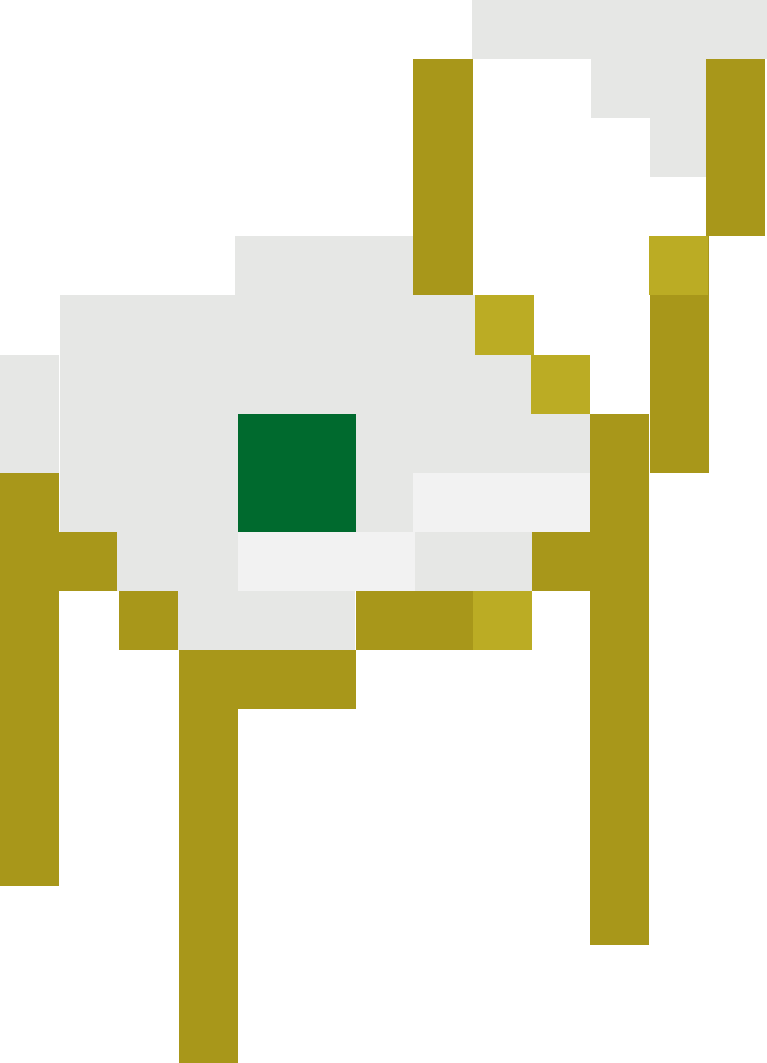
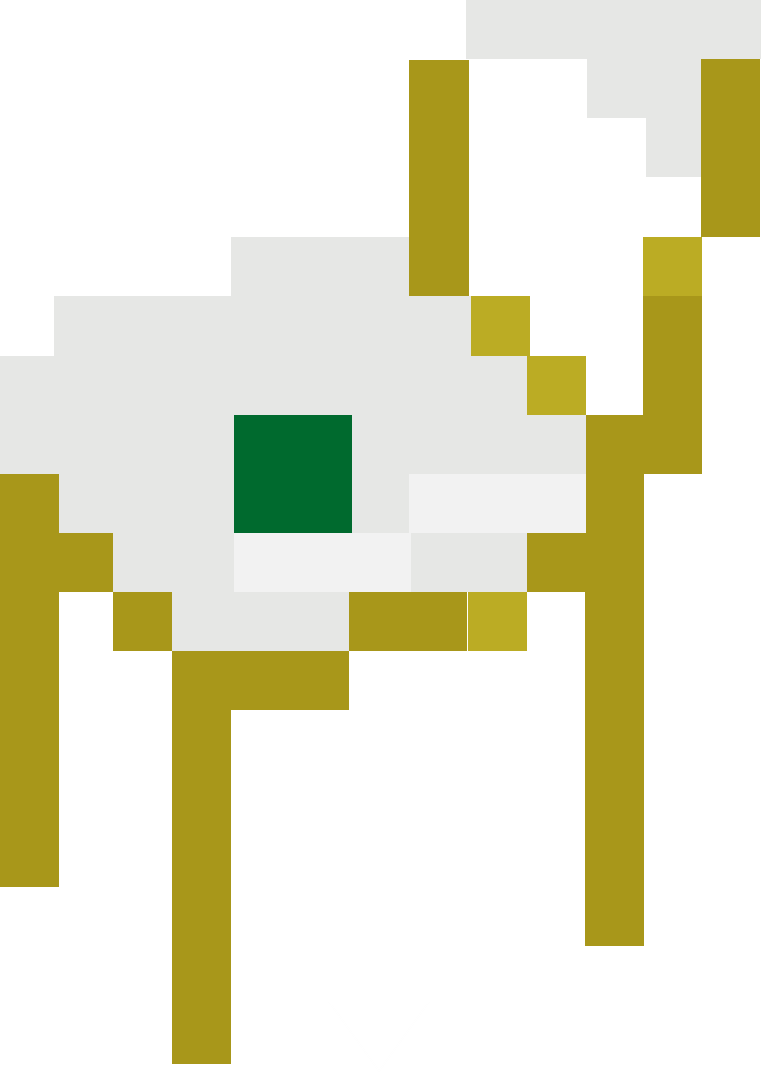
그림추가(13:25)

diff --git a/Readme.md b/Readme.md
@@ -1,4 +1,4 @@
-# 진행방식
+# 진행방식
 1. 금고에 세모, 네모 블록 합체하면 해상도 높아짐
     - 세모는 의자 위에, 네모는 소파 위에 있음
 2. 금고에서 후레시 나옴(특수 후레시) 
@@ -61,3 +61,10 @@
 - C.의 금고의 합체는 어떻게 진행되는 지 예시필요
     - 픽셀룸과 같음. 
     - 인벤에서 세모, 네모 블럭을 하나씩 금고에 합체하는 것
+
+#그림추가(7/4 오후1시25분)
+소파 - 해상도별로
+의자 - 깨진 비트 수정
+금고
+문    - 해상도별로
+메인(소파있는 방면) - 해상도별로
